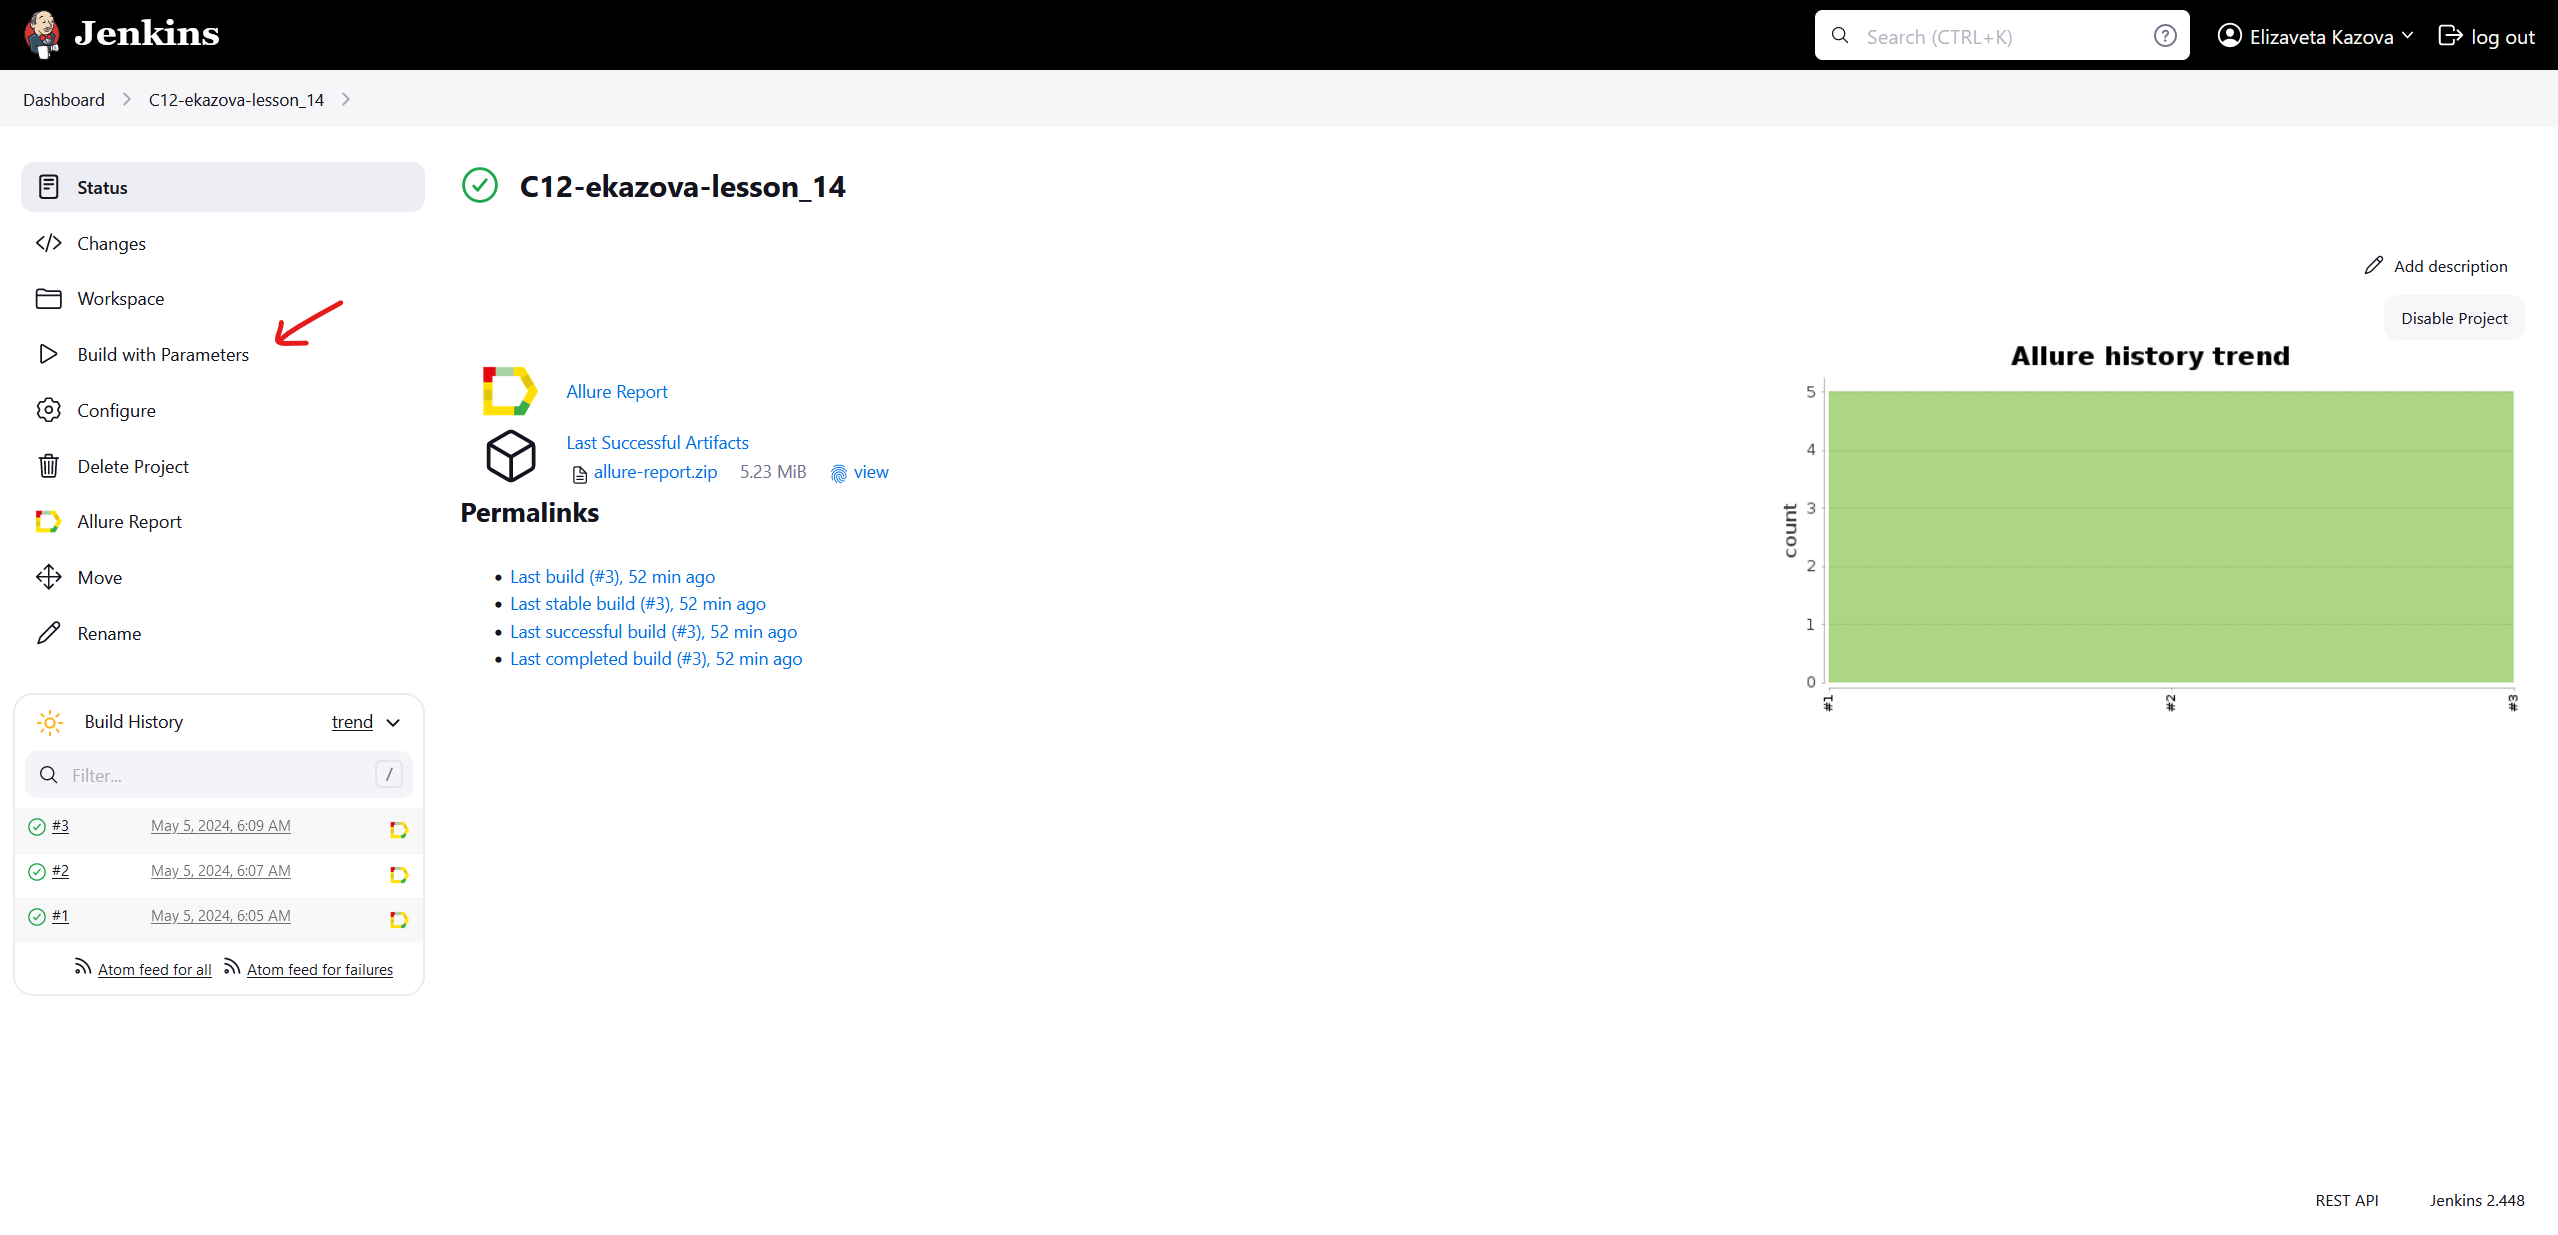
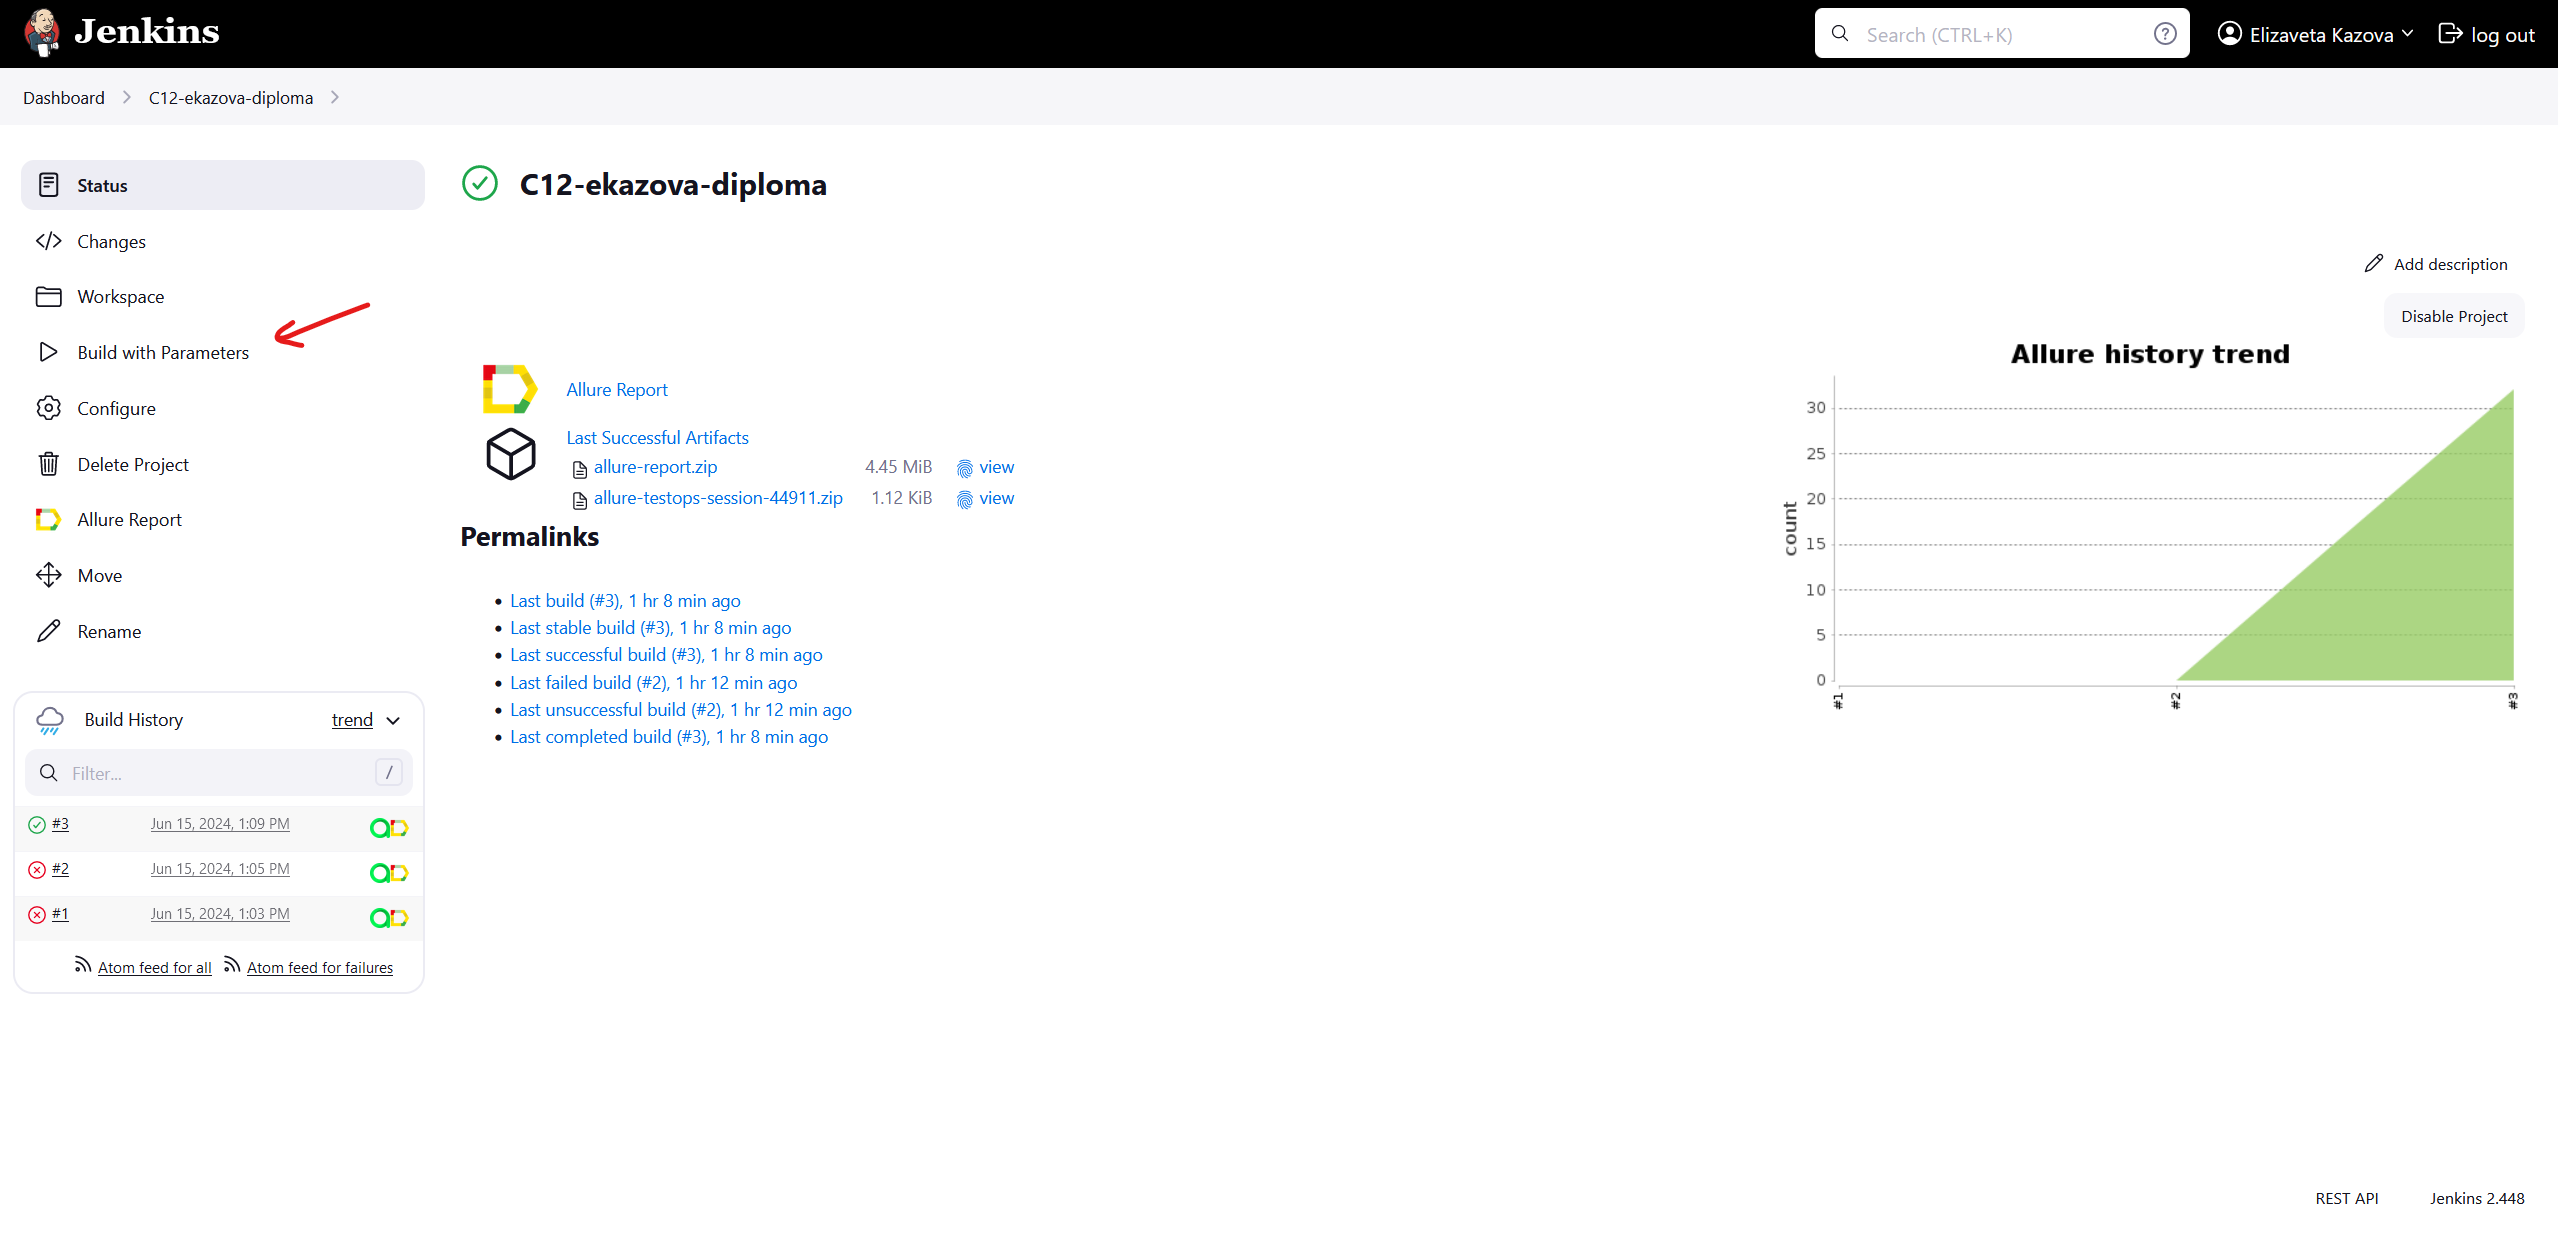
feat: Добавление тегов для Аллюра

diff --git a/tests/api/test_post_vacancies_list.py b/tests/api/test_post_vacancies_list.py
@@ -1,14 +1,18 @@
+import allure
 import pytest
 from helpers.api_requests import api_post
 from helpers.json_validator import assert_json_schema
 from models.api.post_vacancies_body import body_default, body_with_specialties
 
 
+@allure.tag('api')
+@allure.epic('Просмотр списка вакансий')
 @pytest.mark.api_test
 class TestPostVacanciesList:
     def setup_class(self):
         self.url = '/v1/getVacanciesList'
 
+    @allure.title('Успешный просмотр списка вакансий')
     def test_success(self):
         request_body = body_default
 
@@ -18,6 +22,7 @@ class TestPostVacanciesList:
         assert response.status_code == 200
         assert response_body['response']
 
+    @allure.title('Фильтрация по направлению')
     def test_filter_specialties_qa(self):
         request_body = body_with_specialties
 
@@ -27,6 +32,7 @@ class TestPostVacanciesList:
         assert response.status_code == 200
         assert response_body['response']['items'][0]['title'] == 'Тестирование'
 
+    @allure.title('Получение ошибки при пустом теле запроса')
     def test_negative_empty_body(self):
         response = api_post(url=self.url)
         response_body = response.json()
@@ -35,6 +41,7 @@ class TestPostVacanciesList:
         assert response_body['error']['message'] == 'invalid request'
         assert response_body['error']['errcode'] == 'EINVALID'
 
+    @allure.title('Проверка JSON-схемы')
     def test_json_schema(self):
         request_body = body_default
 

diff --git a/tests/api/test_post_tags.py b/tests/api/test_post_tags.py
@@ -1,14 +1,18 @@
+import allure
 import pytest
 from helpers.api_requests import api_post
 from helpers.json_validator import assert_json_schema
 from models.api.post_tags_body import body_with_specialties, body_default
 
 
+@allure.tag('api')
+@allure.epic('Просмотр списка тегов')
 @pytest.mark.api_test
 class TestPostTags:
     def setup_class(self):
         self.url = '/v1/getTags'
 
+    @allure.title('Успешный просмотр списка тегов')
     def test_success(self):
         request_body = body_default
 
@@ -18,6 +22,7 @@ class TestPostTags:
         assert response.status_code == 200
         assert response_body['response']
 
+    @allure.title('Фильтрация по направлению')
     def test_filter_specialties_qa(self):
         request_body = body_with_specialties
 
@@ -27,6 +32,7 @@ class TestPostTags:
         assert response.status_code == 200
         assert not response_body['response']
 
+    @allure.title('Получение ошибки при пустом теле запроса')
     def test_negative_empty_body(self):
         response = api_post(url=self.url)
         response_body = response.json()
@@ -35,6 +41,7 @@ class TestPostTags:
         assert response_body['error']['message'] == 'invalid request'
         assert response_body['error']['errcode'] == 'EINVALID'
 
+    @allure.title('Проверка JSON-схемы')
     def test_json_schema(self):
         request_body = body_default
 

diff --git a/tests/api/test_get_vacancy.py b/tests/api/test_get_vacancy.py
@@ -1,3 +1,4 @@
+import allure
 import pytest
 from faker import Faker
 from helpers.api.vacancy_manager import find_random_vacancy_id
@@ -5,6 +6,8 @@ from helpers.api_requests import api_get
 from helpers.json_validator import assert_json_schema
 
 
+@allure.tag('api')
+@allure.epic('Просмотр вакансии')
 @pytest.mark.api_test
 class TestPostVacanciesList:
     def setup_class(self):
@@ -12,6 +15,7 @@ class TestPostVacanciesList:
 
         self.url_slug = find_random_vacancy_id()
 
+    @allure.title('Успешный просмотр вакансии')
     def test_success(self):
         params = {
             'urlSlug': self.url_slug
@@ -23,6 +27,7 @@ class TestPostVacanciesList:
         assert response.status_code == 200
         assert response_body['response']
 
+    @allure.title('Получение ошибки при просмотре несуществующей вакансии')
     def test_negative_random_url_slug(self):
         params = {
             'urlSlug': Faker().word()
@@ -35,6 +40,7 @@ class TestPostVacanciesList:
         assert response_body['error']['message'] == 'Vacancy not found'
         assert response_body['error']['errcode'] == 'ENOTFOUND'
 
+    @allure.title('Проверка JSON-схемы')
     def test_json_schema(self):
         params = {
             'urlSlug': self.url_slug

diff --git a/tests/ui/core/test_footer.py b/tests/ui/core/test_footer.py
@@ -1,3 +1,4 @@
+import allure
 import pytest
 from models.pages.career_fast_offers_page import career_fast_offers_page
 from models.pages.career_it_page import career_it_page
@@ -5,18 +6,24 @@ from models.pages.career_page import career_page
 from models.pages.footer import footer
 
 
+@allure.tag('ui')
+@allure.epic('Общие компоненты')
+@allure.story('Отображение футера')
 @pytest.mark.ui_test
 class TestFooter:
+    @allure.title('Наличие соц. сетей в футере на странице "Карьера"')
     def test_career_page_have_social_medias(self):
         career_page.open()
 
         footer.should_have_social_medias()
 
+    @allure.title('Наличие соц. сетей в футере на странице "Вакансии"')
     def test_career_it_page_have_social_medias(self):
         career_it_page.open()
 
         footer.should_have_social_medias()
 
+    @allure.title('Наличие соц. сетей в футере на странице "Быстрые офферы"')
     def test_career_fast_offers_page_have_social_medias(self):
         career_fast_offers_page.open()
 

diff --git a/tests/ui/core/test_menu.py b/tests/ui/core/test_menu.py
@@ -1,3 +1,4 @@
+import allure
 import pytest
 from models.pages.career_fast_offers_page import career_fast_offers_page
 from models.pages.career_it_page import career_it_page
@@ -5,18 +6,24 @@ from models.pages.career_page import career_page
 from models.pages.menu import menu
 
 
+@allure.tag('ui')
+@allure.epic('Общие компоненты')
+@allure.story('Отображение меню')
 @pytest.mark.ui_test
 class TestMenu:
+    @allure.title('Наличие меню на странице "Карьера"')
     def test_career_page_have_menu(self):
         career_page.open()
 
         menu.should_have_items()
 
+    @allure.title('Наличие меню на странице "Вакансии"')
     def test_career_it_page_have_menu(self):
         career_it_page.open()
 
         menu.should_have_items()
 
+    @allure.title('Наличие меню на странице "Быстрые офферы"')
     def test_career_fast_offers_page_have_menu(self):
         career_fast_offers_page.open()
 

diff --git a/tests/ui/career_it/test_filter.py b/tests/ui/career_it/test_filter.py
@@ -1,12 +1,17 @@
+import allure
 import pytest
 from models.pages.career_it_page import career_it_page
 
 
+@allure.tag('ui')
+@allure.epic('Страница "Вакансии"')
+@allure.story('Фильтрация вакансий')
 @pytest.mark.ui_test
 class TestFilter:
     def setup_method(self):
         career_it_page.open()
 
+    @allure.title('Фильтрация по направлению')
     @pytest.mark.parametrize(
         'specialty',
         [
@@ -23,6 +28,7 @@ class TestFilter:
         career_it_page.filter_specialty_should_have_value(specialty)
         career_it_page.specialty_title_should_have_value(specialty)
 
+    @allure.title('Фильтрация по уровню')
     @pytest.mark.parametrize(
         'experience',
         [
@@ -38,6 +44,7 @@ class TestFilter:
 
         career_it_page.filter_experiences_should_have_value(experience)
 
+    @allure.title('Фильтрация по городу')
     @pytest.mark.parametrize(
         'city',
         [

diff --git a/tests/ui/career/test_page_contains.py b/tests/ui/career/test_page_contains.py
@@ -1,17 +1,24 @@
+import allure
 import pytest
 from models.pages.career_page import career_page
 
 
+@allure.tag('ui')
+@allure.epic('Страница "Карьера"')
+@allure.story('Отображение контента')
 @pytest.mark.ui_test
 class TestPageContains:
     def setup_method(self):
         career_page.open()
 
+    @allure.title('Наличие информационных блоков')
     def test_have_info_blocks(self):
         career_page.should_have_info_blocks()
 
+    @allure.title('Переход к списку вакансий')
     def test_go_to_vacancies(self):
         career_page.should_go_to_vacancies()
 
+    @allure.title('Переход в блог')
     def test_go_to_blog(self):
         career_page.should_go_to_blog()

diff --git a/tests/ui/career_fast_offers/test_form.py b/tests/ui/career_fast_offers/test_form.py
@@ -1,12 +1,17 @@
+import allure
 import pytest
 from models.pages.career_fast_offers_page import career_fast_offers_page
 
 
+@allure.tag('ui')
+@allure.epic('Страница "Быстрые офферы"')
+@allure.story('Отправка заявки')
 @pytest.mark.ui_test
 class TestForm:
     def setup_method(self):
         career_fast_offers_page.open()
 
+    @allure.title('Получение ошибки валидации при пустых полях')
     def test_leave_form_empty(self):
         career_fast_offers_page.leave_form_empty()
 

diff --git a/README.md b/README.md
@@ -76,7 +76,7 @@
 
 ### Jenkins
 
-<a target="_blank" href="https://jenkins.autotests.cloud/job/C12-ekazova-lesson_14/">Ссылка на Jenkins</a>
+<a target="_blank" href="https://jenkins.autotests.cloud/job/C12-ekazova-diploma">Ссылка на Jenkins</a>
 
 1. Нажать кнопку "Build with Parameters"
 
